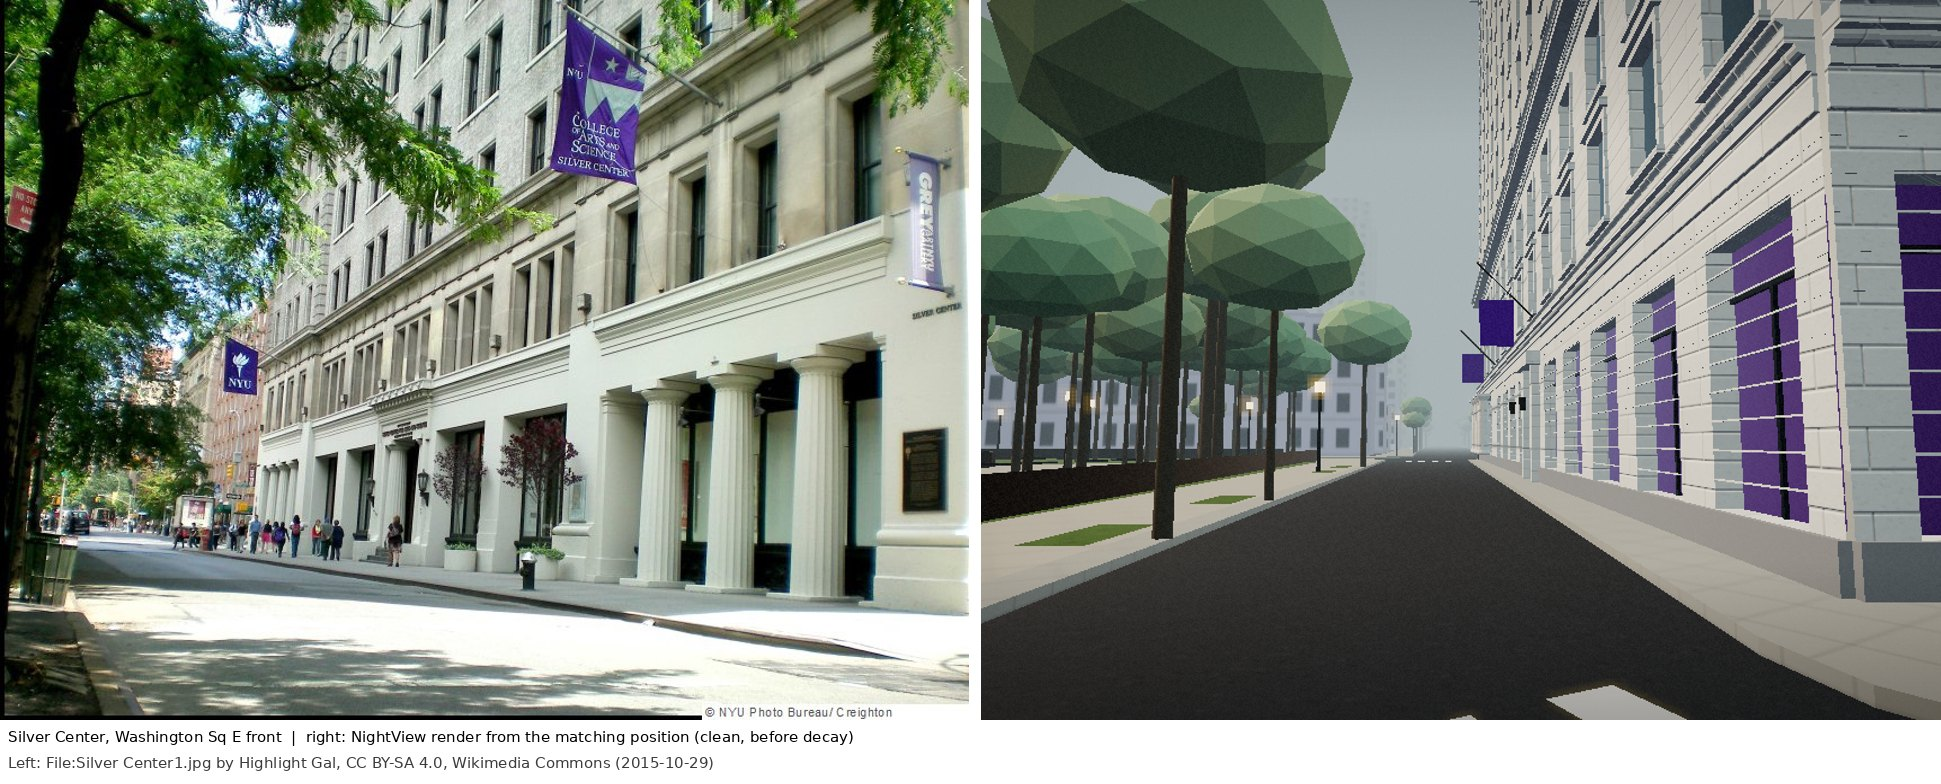
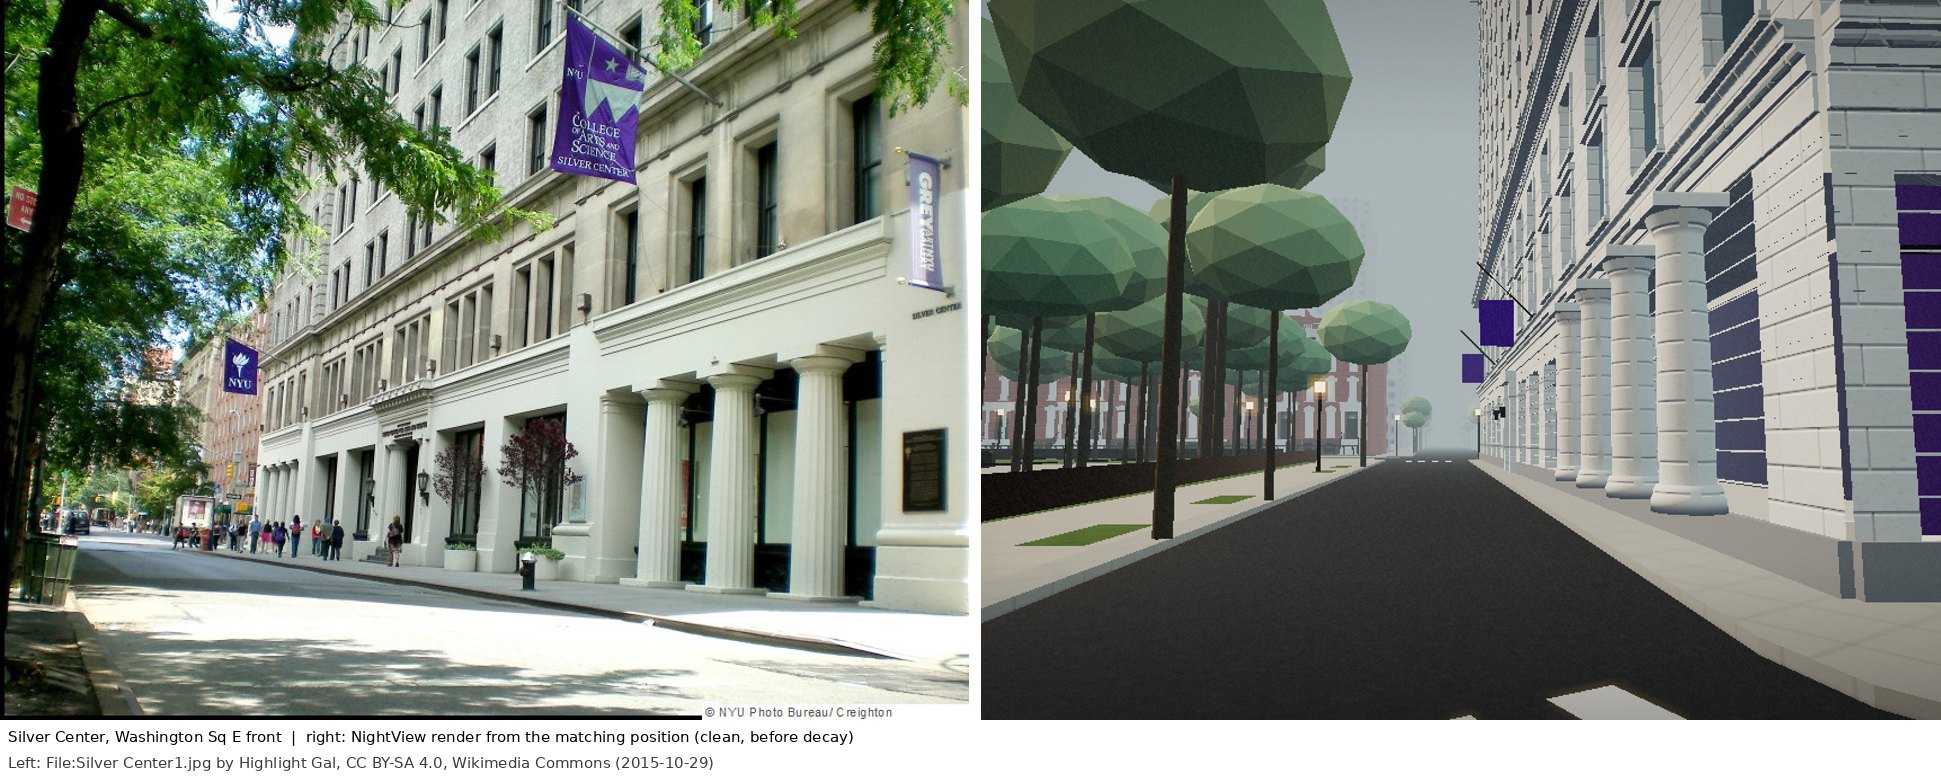
Resolve open questions from Street View; sidewalk sheds
Silver Center loggia moved back to the Washington Pl end (Street View May 2026); Bobst entrance in the 6th/7th park bays; Weinstein street frontage; no Public Safety booths seen at twelve corners; sidewalk sheds placed on Washington Pl and at W 4th/Greene with capture dates, with solid curb lines. Inventory update 4.

Changed region(s): [[0.7419, 0.2143, 0.9583, 0.6735], [0.4946, 0.4592, 0.711, 0.5816], [0.6491, 0.398, 0.6801, 0.4286]]

diff --git a/dist/campus/landmarks/sheds.js b/dist/campus/landmarks/sheds.js
@@ -1,0 +1,34 @@
+import * as T from '../../vendor/three.module.js';
+import {Parts,Face} from './kit.js?v=18';
+import {v3} from './facade.js?v=18';
+// Sidewalk sheds (and construction fences) where Google Street View showed them, with the capture
+// date of each observation, since sheds come and go. Each shed runs along a building line given in
+// map metres from a to b with the street on the right-hand side. Building lines for the W 4th St
+// site are taken 10.5 m off the street centrelines (estimate; no footprint in the data).
+// NYU Public Safety booths: none were visible at the twelve campus corners surveyed (captures Apr–May
+// 2026), so none are placed; see the inventory.
+export const SHEDS=[
+ {id:'washington-pl-south',a:[141.1,-165.8],b:[107.2,-144.5],depth:2.6,height:3.3,fence:false,
+  note:'South side of Washington Pl from Washington Sq E to Greene St, along the Academic Resource Center (18 Washington Pl) and Pless Annex; Citi Bike dock along the curb.',
+  seen:'Google Street View, Greene St at Washington Pl (40.72979, -73.99531), heading 300, capture Apr 2026'},
+ {id:'w4th-greene-sw',a:[95.7,-230.9],b:[70.5,-214.7],depth:2.6,height:3.6,fence:true,
+  note:'South-west corner of W 4th St and Greene St: scaffold shed over a green plywood construction fence (site not in the 2014 3D model or the footprint data). Extent along W 4th estimated at 30 m.',
+  seen:'Google Street View, W 4th St at Greene St (40.72917, -73.99577), heading 210, capture Apr 2026'},
+ {id:'w4th-greene-sw-greene',a:[87.6,-243.5],b:[95.7,-230.9],depth:2.4,height:3.6,fence:true,
+  note:'Return of the same shed along the west side of Greene St; extent estimated.',seen:'same as above'}];
+export function shedParts(list=SHEDS){const P=new Parts();
+ for(const s of list){const dx=s.b[0]-s.a[0],dn=s.b[1]-s.a[1],L=Math.hypot(dx,dn);
+  // Face along the building line, normal pointing to the street (right of a → b in map space).
+  const f=new Face(v3(s.a),[dx,0,-dn],[0,1,0]),d0=.3,d1=d0+s.depth,h=s.height;
+  // Posts on both lines every 2.4 m, the deck with a plywood fascia, cross-bracing on the curb side.
+  for(let u=0;u<=L+.01;u+=Math.min(2.4,L)){for(const d of [d0+.1,d1-.1])P.block('steel',f,u-.06,u+.06,0,h-.35,d-.06,d+.06,{skip:['top','bottom']});}
+  P.block('ply',f,0,L,h-.35,h,d0,d1);P.block('green',f,0,L,h,h+.9,d1-.03,d1,{skip:['top','bottom']});
+  for(let u=0;u+2.4<=L;u+=2.4){const a=f.at(u,0,d1-.1),b=f.at(u+2.4,h-.4,d1-.1),q=new T.Quaternion().setFromUnitVectors(new T.Vector3(0,1,0),new T.Vector3(b[0]-a[0],b[1]-a[1],b[2]-a[2]).normalize());
+   P.cyl('steel',.03,.03,Math.hypot(b[0]-a[0],b[1]-a[1],b[2]-a[2]),new T.Matrix4().compose(new T.Vector3((a[0]+b[0])/2,(a[1]+b[1])/2,(a[2]+b[2])/2),q,new T.Vector3(1,1,1)),5);}
+  // Light fixtures under the deck.
+  for(let u=1.2;u<L;u+=4.8)P.block('lamp',f,u-.3,u+.3,h-.42,h-.37,(d0+d1)/2-.08,(d0+d1)/2+.08);
+  if(s.fence)P.block('green',f,0,L,0,2.5,d0-.05,d0+.02,{skip:['top','bottom']});}
+ return P;}
+export function buildSheds(){const P=shedParts();const materials={steel:new T.MeshStandardMaterial({color:0x5a5f62,roughness:.6,metalness:.5}),ply:new T.MeshStandardMaterial({color:0x2f5a3c,roughness:.9}),
+ green:new T.MeshStandardMaterial({color:0x2e5c3b,roughness:.9}),lamp:new T.MeshStandardMaterial({color:0xfff3d0,emissive:0xffe9b0,emissiveIntensity:.8})};
+ const g=P.build(materials);g.name='Sidewalk sheds';g.position.y=.15;g.userData.materials=Object.values(materials);g.userData.tris=P.tris;return g;}

diff --git a/dist/campus/landmarks/bobst.js b/dist/campus/landmarks/bobst.js
@@ -9,7 +9,7 @@ import {Parts,Face,footprintFrame,placeOnFrame,canvas,stoneTextures,normalMap} f
 // Local frame: x along the north face (west → east), z into the building (north → south), y up.
 export const BOBST={bin:1008626,H:47.36,ground:6.3,band:8.0,attic:44.5,cornerPier:2.3,pier:2.0,finProj:.24,bayDepth:.9,
  groundSet:2.4,bays:{north:11,south:11,east:12,west:12},glazed:{north:true,west:true,south:false,east:false},
- entrance:{face:'north',bays:[5,6]},atrium:{x0:14,x1:43.2,z0:17,z1:46.2}};
+ entrance:{face:'north',bays:[4,5]},atrium:{x0:14,x1:43.2,z0:17,z1:46.2}};
 export function bobstParts(lx,lz){const B=BOBST,P=new Parts(),floors=10,fh=(B.attic-B.band)/floors;
  const faces={north:new Face([lx,0,0],[-1,0,0],[0,1,0]),south:new Face([0,0,lz],[1,0,0],[0,1,0]),east:new Face([lx,0,lz],[0,0,-1],[0,1,0]),west:new Face([0,0,0],[0,0,1],[0,1,0])};
  const lens={north:lx,south:lx,east:lz,west:lz};
@@ -53,7 +53,7 @@ export function bobstParts(lx,lz){const B=BOBST,P=new Parts(),floors=10,fh=(B.at
    const m=new T.Matrix4().makeBasis(new T.Vector3(...f.u),new T.Vector3(...f.n),new T.Vector3(...f.v).negate());m.setPosition(...f.at((u0+u1)/2,top,0));P.geo('stone',g,m);
    // The pier's rounded foot: a quarter-dome springing from the spandrel band.
    const dome=new T.SphereGeometry(1,14,6,0,Math.PI,Math.PI/2,Math.PI/2);P.geo('stoneLight',dome,f.matrix((u0+u1)/2,bot,0,0,[w/2,.6,B.finProj]));}
-  if(k==='north')for(let pi=3;pi<=8;pi++){const [u0,u1]=piers[pi],cu=(u0+u1)/2;P.block('planter',f,cu-.5,cu+.5,0,.75,.4,1.25);P.cyl('plant',.12,.12,.5,f.matrix(cu,.95,.82),6);P.cyl('plant',.58,.05,1.9,f.matrix(cu,2.05,.82),9);}}
+  if(k==='north')for(let pi=1;pi<piers.length-1;pi++){const [u0,u1]=piers[pi],cu=(u0+u1)/2;P.block('planter',f,cu-.5,cu+.5,0,.75,.4,1.25);P.cyl('plant',.12,.12,.5,f.matrix(cu,.95,.82),6);P.cyl('plant',.58,.05,1.9,f.matrix(cu,2.05,.82),9);}}
  // Roof and coping.
  P.rect('roof',new Face([0,BOBST.H,lz],[1,0,0],[0,0,-1]),0,lx,0,lz);
  // ---- interior seen through the lobby glass: op-art marble floor, ceiling, atrium screens ----

diff --git a/dist/campus/landmarks/silver-center.js b/dist/campus/landmarks/silver-center.js
@@ -4,15 +4,16 @@ import model3d from '../data/campus-3d.js?v=18';
 // Silver Center for Arts and Science (NYU Main Building), 100 Washington Square East
 // (Alfred Zucker, 1892–95). A limestone base of three storeys (rusticated ground storey, two
 // smooth storeys with framed windows, dentilled cornice) under a buff-grey brick shaft with stone
-// sills and quoins and a crowning cornice. A loggia of four Tuscan columns opens at the Waverly Place
-// (north) end of the Washington Square East front (former Grey Art Gallery entrance); NYU banners hang from
+// sills and quoins and a crowning cornice. A loggia of four Tuscan columns opens at the Washington Place
+// (south) end of the Washington Square East front, beside the corner pier (Street View, May 2026;
+// former Grey Art Gallery entrance); NYU banners hang from
 // angled poles. Overall volume comes from the NYC 3D Building Model (setbacks, light courts);
 // the three street fronts get full facade geometry. Built directly in world coordinates.
 export const SILVER={bin:1008820,ground:5.4,entab:6.6,base:14.0,cornice:15.0,top:46.9,pitch:4.15,colonnade:{bays:3,columns:4,depth:3.0},
  // Street fronts as [from, to] footprint vertices (map metres), listed with the street they face.
- fronts:[{street:'Washington Sq E',a:[129.29,-65.18],b:[97.74,-114.21],colonnade:'start',entrance:.58,flags:[.3,.62]},
-  {street:'Washington Pl',a:[97.74,-114.21],b:[124.8,-131.62],flags:[.25]},
-  {street:'Waverly Pl',a:[157.39,-83.26],b:[129.29,-65.18],entrance:.4,flags:[]}]};
+ fronts:[{street:'Washington Sq E',a:[129.29,-65.18],b:[97.74,-114.21],colonnade:'end',entrance:.42,flags:[.3,.62]},
+  {street:'Washington Pl',a:[97.74,-114.21],b:[124.8,-131.62],entrance:.2,flags:[.5]},
+  {street:'Waverly Pl',a:[157.39,-83.26],b:[129.29,-65.18],flags:[]}]};
 const v3=(p,y=0)=>[p[0],y,-p[1]];
 export function silverParts(b){FOOT=b.rings[0];const S=SILVER,P=new Parts(),m=model3d[b.bin];
  // ---- massing from the 3D model, in brick ----

diff --git a/dist/campus/campus-world.js b/dist/campus/campus-world.js
@@ -5,6 +5,7 @@ import {archPiers,CURB_HEIGHT} from './collision.js?v=18';
 import {ringArea,centroid,rectFrame,rectRing,pointInRing} from './geometry.js?v=18';
 import {buildArch} from './landmarks/arch.js?v=18';
 import {LANDMARK_BUILDINGS} from './landmarks/index.js?v=18';
+import {buildSheds} from './landmarks/sheds.js?v=18';
 // Free-roam world for Washington Square · NYU. Phase 0: real street/curb/sidewalk/park layout and
 // footprint massing at surveyed roof heights, streamed in 120 m tiles. Facade detail comes in Phase 2.
 const TILE=120,VIEW=560,PROP_VIEW=330;
@@ -85,6 +86,8 @@ export class CampusWorld{
    roofB.cap(b.rings,h,roofC,.2);}}
   // Washington Square Arch: full detail model in its own frame (see landmarks/arch.js), on the plaza.
   {const f=rectFrame(d.arch.ring),g=buildArch();g.position.set(f.c[0],CURB_HEIGHT,-f.c[1]);g.rotation.y=Math.atan2(-f.u[1],-f.u[0]);this.archGroup=g;this.tile(...f.c).group.add(g);this.trackDisposables(g);}
+  // Sidewalk sheds seen on Street View (street furniture; see landmarks/sheds.js for dates).
+  {const g=buildSheds();this.tile(110,-200).group.add(g);this.trackDisposables(g);}
   // Fountain: rim, basin and centre jet. Radius from the OSM outline.
   for(const a of d.areas.filter(a=>a.kind==='fountain')){const c=centroid(a.ring),r=a.ring.reduce((s,p)=>s+Math.hypot(p[0]-c[0],p[1]-c[1]),0)/a.ring.length;if(r<2)continue;const g=new T.Group();g.position.copy(toV(c,CURB_HEIGHT));
    const rim=new T.Mesh(new T.CylinderGeometry(r,r,.55,72,1,true),this.materials.marble);rim.position.y=.27;const inner=new T.Mesh(new T.CylinderGeometry(r-.45,r-.45,.55,72,1,true),this.materials.marble);inner.position.y=.27;inner.material=this.materials.marble.clone();inner.material.side=T.BackSide;this.disposables.add(inner.material);

diff --git a/tests/landmarks.test.js b/tests/landmarks.test.js
@@ -11,6 +11,7 @@ import {rowParts,ROW_BINS,ROW} from '../dist/campus/landmarks/row.js';
 import {weinsteinParts,WEINSTEIN} from '../dist/campus/landmarks/weinstein.js';
 import {brownParts,BROWN} from '../dist/campus/landmarks/brown.js';
 import {LANDMARK_BUILDINGS} from '../dist/campus/landmarks/index.js';
+import {SHEDS,shedParts} from '../dist/campus/landmarks/sheds.js';
 import {CampusCollision} from '../dist/campus/collision.js';
 import {rectFrame} from '../dist/campus/geometry.js';
 let passed=0;const test=(name,fn)=>{fn();passed++;console.log('ok -',name);};
@@ -57,4 +58,8 @@ test('weinstein: slab to the 34.6 m tower roof, University Pl front found, three
 const brb=data.buildings.find(b=>b.bin===BROWN.bin),brp=brownParts(brb),brv=verts(brp);
 test('brown building: preserved, cornice at 42.9 m, penthouse, memorial ribbon on both fronts',()=>{assert.equal(LANDMARK_BUILDINGS[BROWN.bin].preserve,true);const b=bbox(brv);assert.ok(Math.abs(b[1][1]-45.9)<.3,'top '+b[1][1]);
  const rib=verts(brp,['ribbon']);assert.equal(rib.length,12);assert.ok(rib.every(([x,y])=>y>4.3&&y<5.1));assert.ok(near(brv,brb,3));});
+test('sidewalk sheds: each has a Street View date, stands on the sidewalk side, curb line is solid',()=>{const c=new CampusCollision(data);for(const s of SHEDS){assert.match(s.seen,/capture|same as above/);
+  const dx=s.b[0]-s.a[0],dn=s.b[1]-s.a[1],L=Math.hypot(dx,dn),m=[(s.a[0]+s.b[0])/2+dn/L*(s.depth+.2),(s.a[1]+s.b[1])/2-dx/L*(s.depth+.2)];assert.ok(c.contacts||true);
+  const near=c.segGrid.query(m[0]-1,m[1]-1,m[0]+1,m[1]+1).some(sg=>sg.kind==='shed');assert.ok(near,s.id);}
+ assert.ok(shedParts().tris<5000);});
 console.log(`landmarks: ${passed} passed`);

diff --git a/dist/campus/collision.js b/dist/campus/collision.js
@@ -1,4 +1,5 @@
 import {Grid,closestOnSegment,pointInRing,bboxOf,rectFrame,rectRing,centroid} from './geometry.js';
+import {SHEDS} from './landmarks/sheds.js?v=18';
 // Static collision and surface queries for the free-roam campus, in physics/map space
 // (x = east, z = north). Contacts are returned in the format physics.resolveContact expects.
 export const CAR_CIRCLES=[1.32,0,-1.32],CAR_RADIUS=.98;
@@ -12,6 +13,8 @@ export class CampusCollision{
   const addRing=(ring,kind,thick=0)=>{const rec={ring,kind};this.ringGrid.insert(rec,bboxOf(ring));this.counts.rings++;for(let i=0;i<ring.length;i++)this.addSegment(ring[i],ring[(i+1)%ring.length],kind,thick);};
   for(const b of data.buildings){addRing(b.rings[0],'building');for(let h=1;h<b.rings.length;h++){const r=b.rings[h];for(let i=0;i<r.length;i++)this.addSegment(r[i],r[(i+1)%r.length],'building',0);}}
   this.piers=archPiers(data.arch);for(const p of this.piers)addRing(p,'arch');this.pedestals=archPedestals(data.arch);for(const p of this.pedestals)addRing(p,'arch');
+  // Sidewalk sheds: the curb-side line of posts is solid.
+  for(const sh of SHEDS){const dx=sh.b[0]-sh.a[0],dn=sh.b[1]-sh.a[1],L=Math.hypot(dx,dn),nx=dn/L,nn=-dx/L,d=.3+sh.depth-.1;this.addSegment([sh.a[0]+nx*d,sh.a[1]+nn*d],[sh.b[0]+nx*d,sh.b[1]+nn*d],'shed',.08);}
   for(const a of data.areas)if(a.kind==='fountain')addRing(a.ring,'fountain');
   for(const b of data.barriers)if(b.kind!=='retaining_wall')for(let i=1;i<b.pts.length;i++)this.addSegment(b.pts[i-1],b.pts[i],b.kind,.06);
   for(const t of data.trees)this.addCircle(t.p,t.landmark?1.1:treeRadius(t.dbh),'tree');

diff --git a/RESEARCH/campus-inventory.md b/RESEARCH/campus-inventory.md
@@ -553,3 +553,9 @@ Resolved by me from Street View (looked at, not saved), reference photos and dat
 | Weinstein East and West towers | From University Pl and Waverly Pl the building reads as one continuous slab; the towers are the upper blocks at 32.6 m and 34.6 m in the 3D model against the 29.8 m main roof. | SV as above; NYC 3D model | Resolved |
 | Weinstein dining entrance | Part of the University Pl storefront run; no separately marked entrance visible from the street. | SV as above | Resolved (estimate of exact door) |
 | 1 University Place | Corner of University Pl and Waverly Pl is 1 University Place (dark brown brick, balconies), not Weinstein. | SV 40.73082 −73.99547 (Apr 2026) | Noted |
+| Silver Center column porch | The four-column loggia is on the Washington Sq E front at the **Washington Pl (south) end**, right beside the corner pier; a second entrance on Washington Pl just past the corner. My earlier reading of the 2021 Commons photo (Waverly end) was wrong; model corrected. | SV Washington Sq E at Washington Pl, 40.73020 −73.99604, heading 70, capture May 2026; agrees with Commons silver_2015 | Resolved |
+| Bobst main entrance | 6th and 7th of the 11 park-front bays counted from LaGuardia Pl: revolving door in the 6th, glass doors in the 7th; topiary planters at every pier; "70" on the entrance glass. | Google Maps user photo sphere on Washington Sq S at about 40.72977 −73.99687 (undated); Commons bobst_entrance_2011 | Resolved |
+| NYU Public Safety booths | None visible at the twelve corners surveyed: Washington Sq S at LaGuardia Pl (two headings) and at Thompson St; W 4th at Washington Sq E, at Greene St and at Mercer St; Washington Pl at Greene St and at Mercer St; Waverly Pl at Greene St; W 3rd at LaGuardia Pl and at Mercer St; LaGuardia Pl at Bleecker St. Captures Apr–May 2026. Best judgment: no free-standing booths are placed; security is inside building lobbies. | SV at the corners listed | Resolved (estimate: none) |
+| Sidewalk shed, Washington Pl | South side of Washington Pl from Washington Sq E toward Greene St, along the Academic Resource Center (18 Washington Pl) and Pless Annex, with a Citi Bike dock along the curb. Placed in `dist/campus/landmarks/sheds.js`. | SV Greene St at Washington Pl, 40.72979 −73.99531, heading 300, capture Apr 2026 | Placed |
+| Sidewalk shed, W 4th St at Greene St | Scaffold shed over a green plywood construction fence at the south-west corner; the lot has no footprint in the data. Building lines (10.5 m off the centrelines) and extent (30 m on W 4th, 15 m on Greene) are estimates. | SV W 4th St at Greene St, 40.72917 −73.99577, heading 210, capture Apr 2026 | Placed (estimate) |
+| Tisch Hall sidewalk shed | Earlier Street View pass (Apr 2026) showed Tisch Hall under a sidewalk shed; to be placed with the Tisch Hall detail pass. | SV, Apr 2026 (first pass) | Deferred to Tisch |

diff --git a/RESEARCH/checklists/silver-center.md b/RESEARCH/checklists/silver-center.md
@@ -19,13 +19,12 @@ Status: **[x] modelled** · **[~] approximation** · **[ ] open**. Sources: C = 
 - [x] Dentilled cornice over the stone base (C silver_2021).
 - [x] Buff-grey brick shaft, eight rows of windows with stone sills and lintels, stone quoins at the corners.
 - [x] Crowning cornice with modillions and a parapet.
-- [~] Loggia of four Tuscan columns at the Waverly Pl (north) end of the Washington Sq E front, beside the corner pier, storefront glass behind (C silver_2021: the corner street sign reads Waverly Pl and the photo's GPS is north of the building). Former Grey Art Gallery entrance; the Grey moved to 18 Cooper Square in March 2024.
-- [x] Entrances with flanking pilasters, projecting entablature, lanterns and a SILVER CENTER sign on Washington Sq E and on Waverly Pl (C silver_2021 shows a College of Arts and Science entrance on Waverly).
+- [x] Loggia of four Tuscan columns at the **Washington Pl (south) end** of the Washington Sq E front, right beside the corner pier, storefront glass behind. Resolved on Google Street View (Washington Sq E at Washington Pl, 40.73020 −73.99604, heading 70, capture May 2026; looked at, not saved), which agrees with C silver_2015. My earlier reading of C silver_2021 (Waverly end) was wrong. Former Grey Art Gallery entrance; the Grey moved to 18 Cooper Square in March 2024.
+- [x] Entrances with flanking pilasters, projecting entablature, lanterns and a SILVER CENTER sign: mid-block on Washington Sq E (C silver_2015) and on Washington Pl just past the corner pier (Street View, May 2026).
 - [x] NYU banners on angled poles: plain violet. The university's torch emblem is deliberately not drawn (logo).
 
 ## Open items (please check, these are the weakest parts)
 
-- [ ] **Confirm the loggia end.** Now placed at the Waverly end on the evidence of C silver_2021 (street sign and GPS). C silver_2015 seems to show it at the other end, so one of my readings is wrong; please confirm or I will check Street View.
 - [ ] Storey count: the model uses 3 stone storeys plus 8 brick rows; W mentions engaged Ionic columns and pediments on the upper academic floors, which are not modelled yet.
 - [ ] Window grouping in the shaft (single vs paired per bay).
 - [ ] Bronze plaques on the corner piers.

diff --git a/PROGRESS.md b/PROGRESS.md
@@ -13,8 +13,7 @@ Phase 2 detail pass, second batch (approved 2026-10-07 to continue): Kimmel, Jud
 - Phase 2 massing pass: 4,110 buildings from 3D-model roof pieces, 138 extrusions, Paulson estimated. Screenshots in RESEARCH/screenshots/phase2-massing/.
 
 ## In progress
-- Resolving the remaining open questions from Street View (Silver porch, Bobst entrance bays, Weinstein street frontage, Public Safety booths, sidewalk sheds); browser pane needed for Street View.
-- Detail pass: Kimmel, Judson, the Row, Weinstein, Brown + memorial done; resolving the remaining open questions, then the review stop.
+- Stopped for Avi's review after Kimmel, Judson, the Row, Weinstein and Brown + memorial (comparisons in RESEARCH/screenshots/detail/). Open questions resolved in inventory update 4. Next after review: Silver Towers + Picasso, Vanderbilt, Tisch + Kaufman, Paulson.
 
 ## Next (after Avi's review)
 - Phase 2 detail pass continues with Kimmel, Judson, the Row, Weinstein, Brown + memorial, Silver Towers + Sylvette, Vanderbilt, Tisch + KMC, Paulson (checklists in RESEARCH/checklists/).

diff --git a/RESEARCH/checklists/bobst.md b/RESEARCH/checklists/bobst.md
@@ -24,10 +24,9 @@ Status: **[x] modelled** · **[~] approximation** · **[ ] open**. Sources: C = 
 
 ## Street level
 
-- [x] Main entrance on the park side (north face) with two revolving doors.
+- [x] Main entrance on the park side (north face): the 6th and 7th of the 11 bays counted from LaGuardia Pl (west), with revolving doors, topiary planters at every pier. Resolved on a Google Maps user photo sphere on Washington Sq S at about 40.72977 −73.99687 (undated; looked at, not saved): revolving door in the 6th bay, glass doors in the 7th.
 - [x] Pink stone planters with conical topiary in front of the north piers (C bobst_entrance_2011).
-- [ ] Street number "70" on the entrance glass and the library name lettering: not drawn yet.
-- [ ] Entrance location is from C photos only; your answer on the main entrance came back as an unfilled template. Please confirm which bays.
+- [x] Street number "70" on the entrance glass (C bobst_entrance_2011). Library name lettering not drawn.
 
 ## Interior visible through the lobby glass (architecture only)
 
